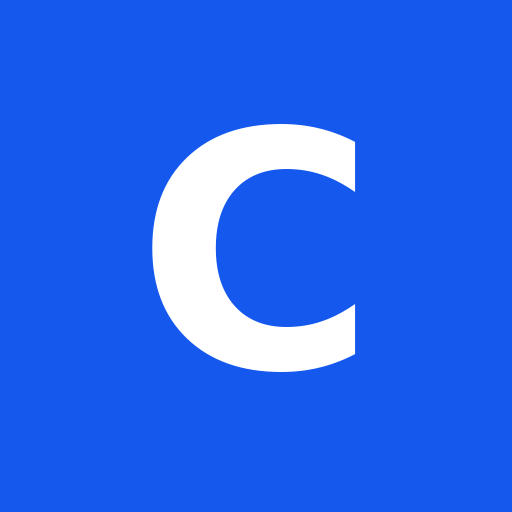
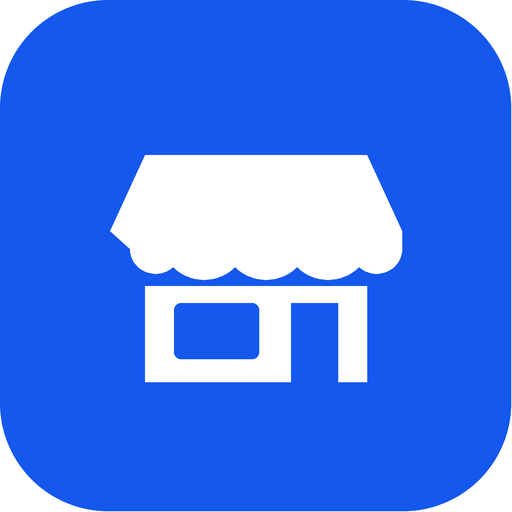
Cambiar icono de letra por tienda

diff --git a/index.html b/index.html
@@ -8,18 +8,18 @@
   <meta name="robots" content="noindex, nofollow, noarchive, nosnippet">
   <link rel="manifest" href="./manifest.webmanifest">
   <link rel="icon" href="./icon.svg" type="image/svg+xml">
-  <link rel="apple-touch-icon" href="./icon-192.png">
+  <link rel="apple-touch-icon" href="./icon-192.png?v=0.2.13">
   <link rel="stylesheet" href="./styles.css">
   <title>Guía de caja</title>
 </head>
 <body>
   <div class="shell">
     <header class="topbar">
-      <button class="brand" data-go="home" aria-label="Ir al inicio"><span class="mark">C</span><span>Caja <small>Guía de decisiones</small></span></button>
+      <button class="brand" data-go="home" aria-label="Ir al inicio"><img class="mark" src="./icon.svg" alt=""><span>Caja <small>Guía de decisiones</small></span></button>
       <div class="header-actions"><button id="forget-device" class="text-button" type="button" hidden>Olvidar dispositivo</button><button id="all-cases" class="text-button" type="button">Ver casos</button></div>
     </header>
     <main id="app" tabindex="-1"></main>
-    <footer><span>Guía cifrada v0.2.12 · 30 sep 2026</span><span>La guía no registra operaciones.</span></footer>
+    <footer><span>Guía cifrada v0.2.13 · 30 sep 2026</span><span>La guía no registra operaciones.</span></footer>
   </div>
   <script src="./app.js"></script>
 </body>

diff --git a/sw.js b/sw.js
@@ -1,5 +1,5 @@
-const CACHE = 'guia-caja-v0.2.12';
-const ASSETS = ['./','./index.html','./styles.css','./content.enc.json','./app.js','./manifest.webmanifest','./icon.svg','./icon-192.png','./icon-512.png'];
+const CACHE = 'guia-caja-v0.2.13';
+const ASSETS = ['./','./index.html','./styles.css','./content.enc.json','./app.js','./manifest.webmanifest','./icon.svg','./icon-192.png?v=0.2.13','./icon-512.png?v=0.2.13'];
 self.addEventListener('install', event => {
   event.waitUntil(caches.open(CACHE).then(cache => cache.addAll(ASSETS.map(url => new Request(new URL(url, self.location.href), {cache:'reload'})))).then(() => self.skipWaiting()));
 });

diff --git a/styles.css b/styles.css
@@ -51,16 +51,11 @@ button { touch-action: manipulation; }
 }
 .brand small { display: block; margin-top: 3px; color: var(--muted); font-size: 14px; font-weight: 500; }
 .mark {
-  display: grid;
-  place-items: center;
+  display: block;
   flex: none;
   width: 44px;
   height: 44px;
   border-radius: 14px;
-  background: var(--blue);
-  color: #fff;
-  font-size: 23px;
-  font-weight: 800;
 }
 .header-actions { display: flex; align-items: center; gap: 8px; }
 .text-button {
